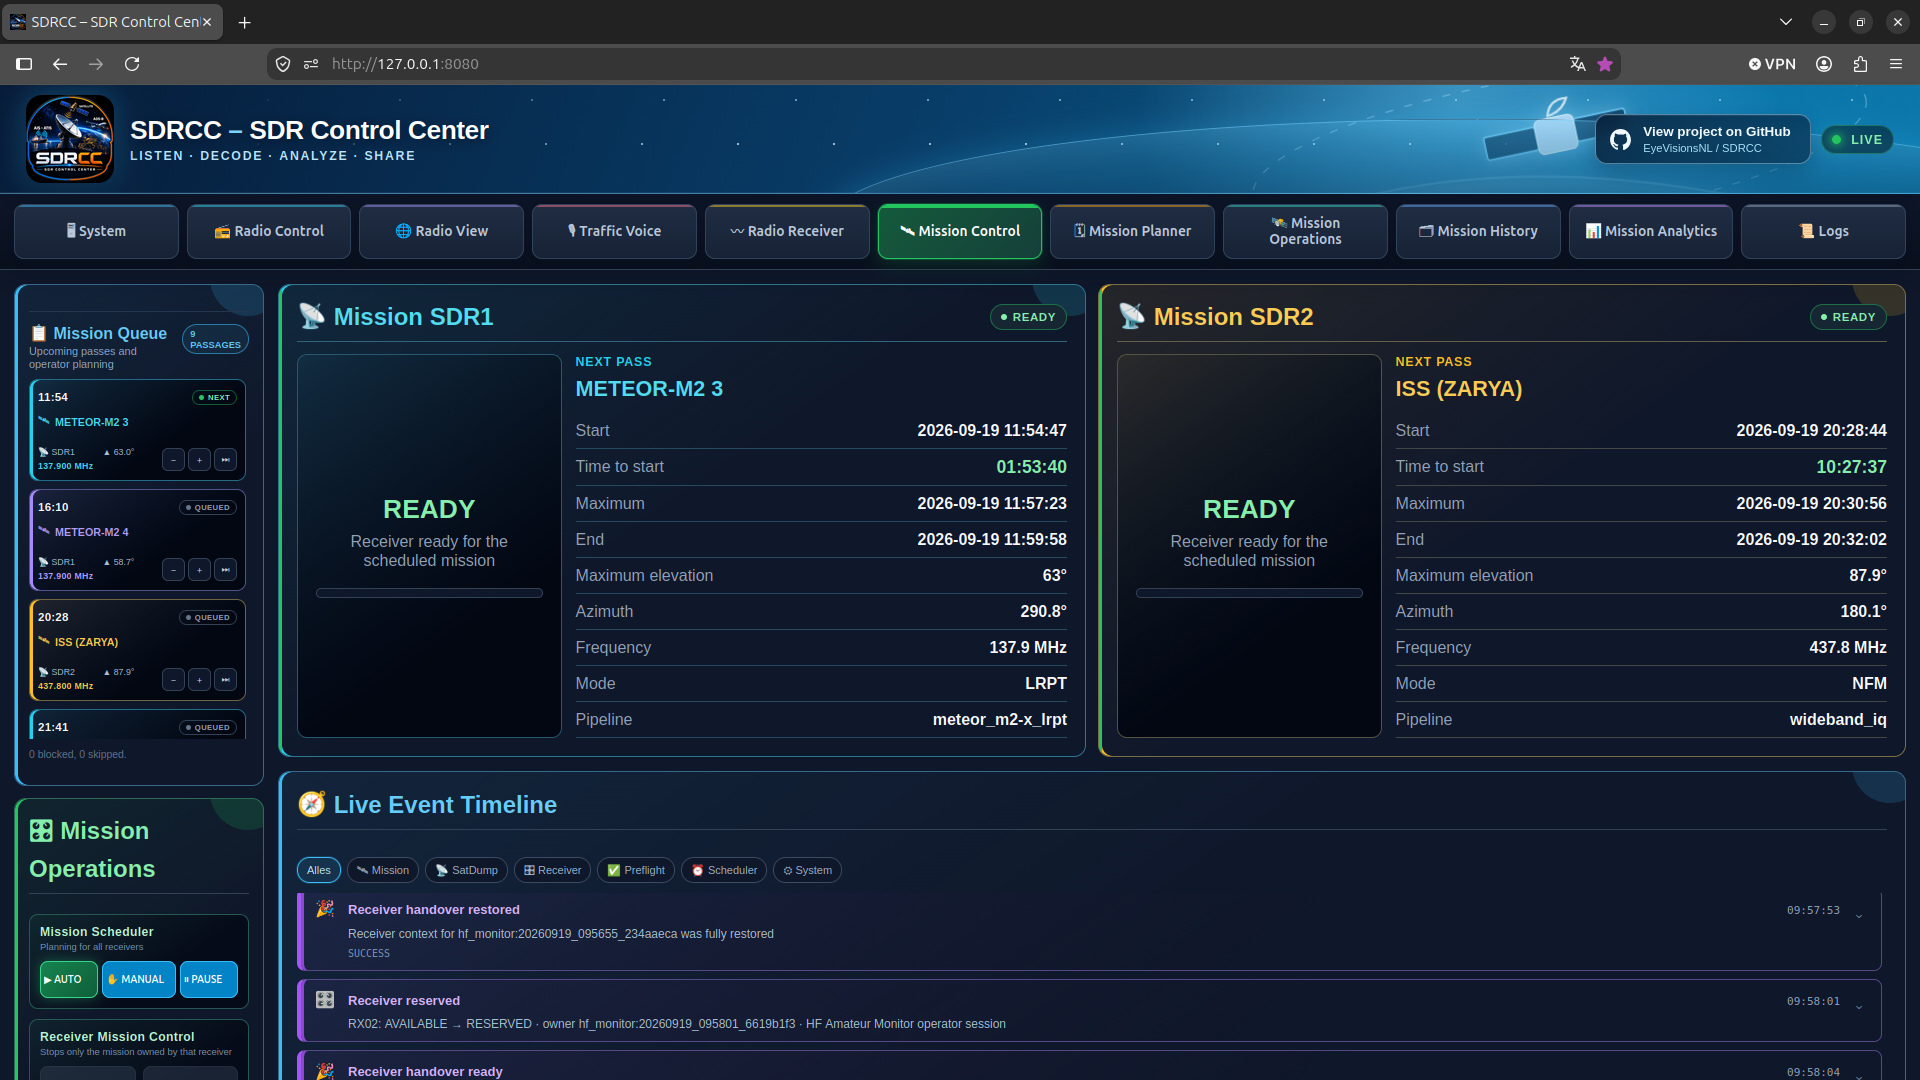
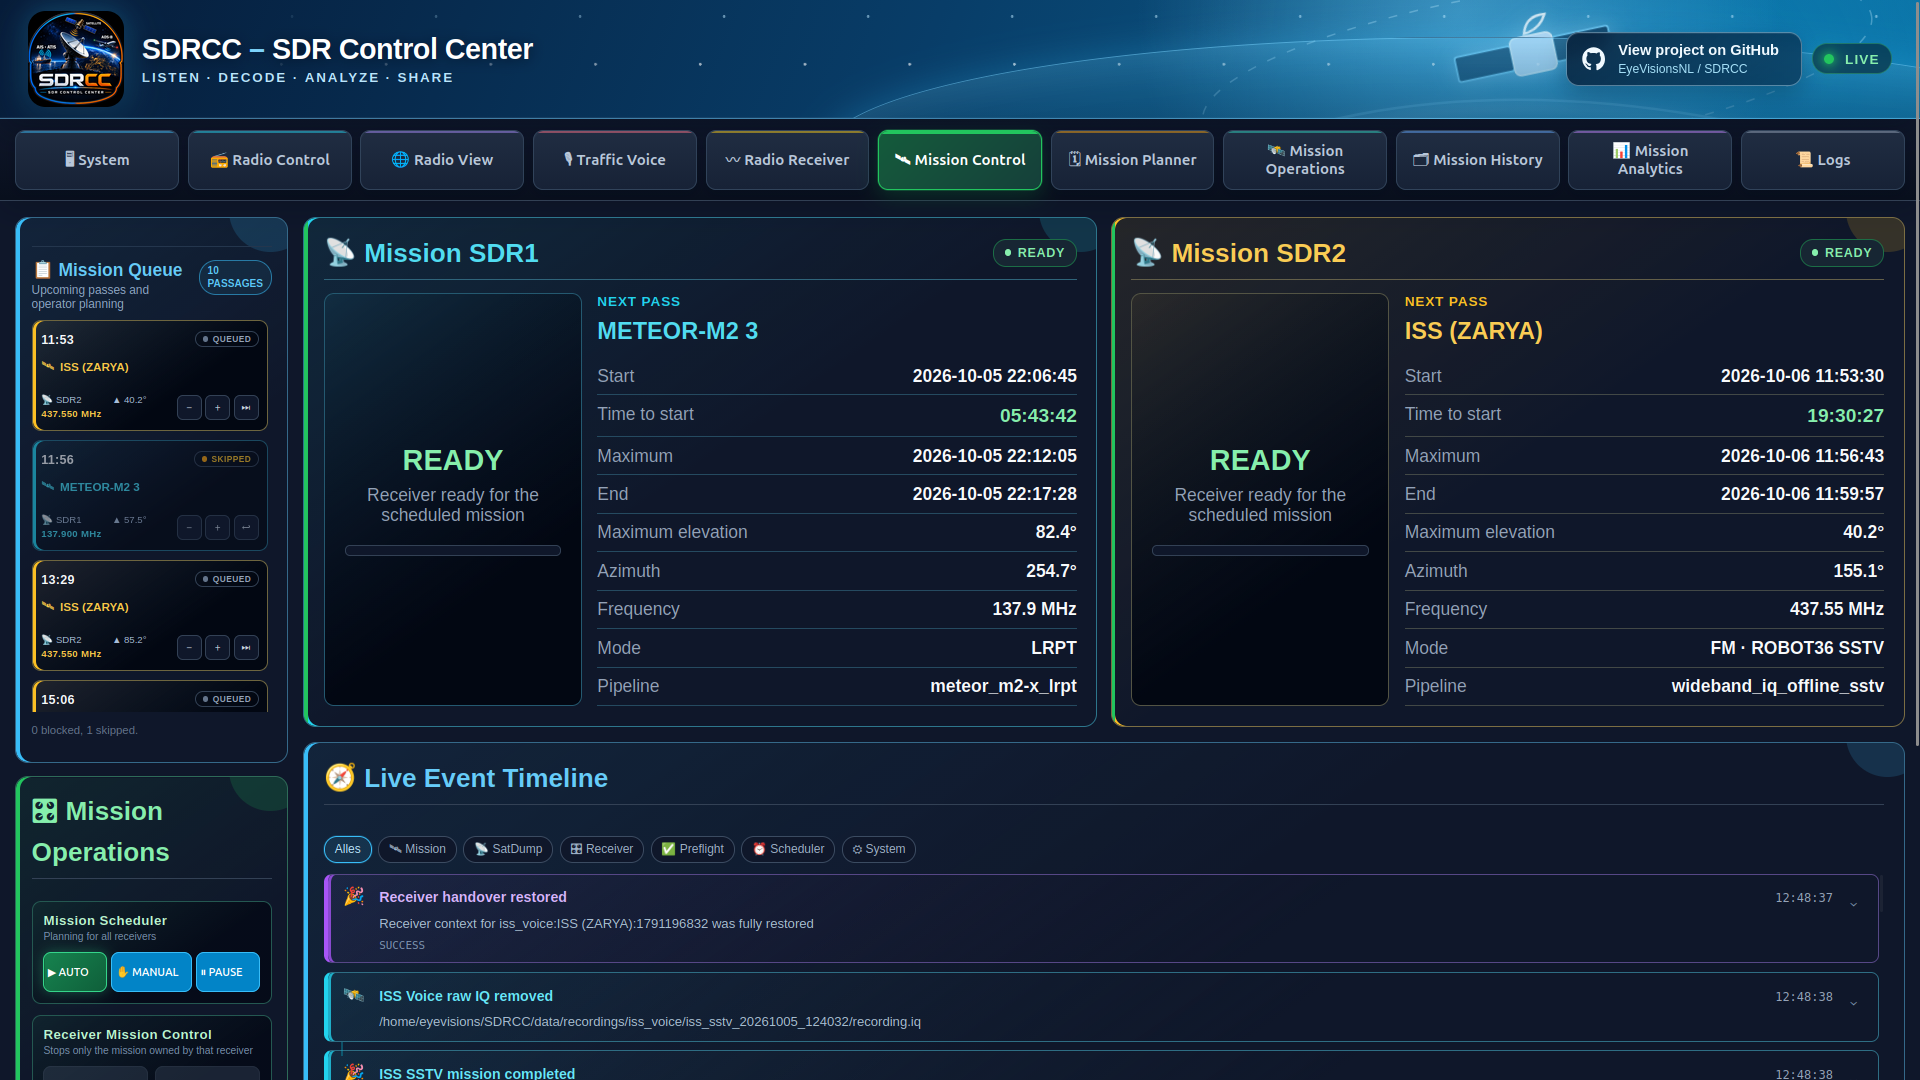
Refresh README for SDRCC 0.63.12

Changed region(s): [[0.0, 0.0, 1.0, 1.0], [0.9375, 0.9778, 0.9688, 1.0], [0.9375, 0.825, 0.9688, 0.8556]]

diff --git a/README.md b/README.md
@@ -30,7 +30,7 @@ SDRCC is designed around multiple RTL-SDR receivers, but the logical SDR slots a
 
 **✈ Aircraft · 🚢 Ships · 🛰 Satellites · 📻 Radio**
 
-![SDRCC Radio View](images/radio-view.png)
+![SDRCC Radio View showing live ADS-B, AIS and satellite tracks](images/radio-view.png)
 
 **Radio View** gives you the quick picture: aircraft from ADS-B, vessels from AIS and satellites currently moving over the station.
 
@@ -52,17 +52,17 @@ The **Auto** function can follow newly validated matches in the AIS-catcher map.
 
 A match depends on the ATIS and AIS information available at that moment, so **Possible Speaker** is exactly what the name says: useful correlation information for the operator, not a claim that every transmission can always be identified.
 
-Traffic Voice also supports **Airband Voice + ADS-B**, fixed-channel listening, channel scanning, scan exclusions, adjustable scan speed, squelch, Auto Gain/manual gain and Excel channel-list import/export.
+Traffic Voice also supports **Airband Voice + ADS-B**, fixed-channel listening, channel scanning, scan exclusions, adjustable scan speed, squelch, selectable voice noise reduction, Auto Gain/manual gain and Excel channel-list import/export.
 
 ## 📻 Sometimes you just want a radio
 
-![SDRCC Radio Receiver spectrum and waterfall](images/radio-receiver.png)
+![SDRCC Radio Receiver with Smart Gain, spectrum and waterfall](images/radio-receiver.png)
 
 Not everything needs to be a mission.
 
 The built-in **Radio Receiver** turns an available RTL-SDR into a browser-controlled receiver with live audio, spectrum and waterfall.
 
-Tune directly or use presets. Supported modes include **LSB, USB, CW, AM, NFM, FM and WFM**, with tuning steps, click-to-tune, RF-power squelch and Auto Gain/manual gain.
+Tune directly or use presets. Supported modes include **LSB, USB, CW, AM, NFM, FM and WFM**, with tuning steps, click-to-tune, **Smart Gain or manual tuner gain**, and RF-power squelch. Smart Gain briefly measures signal and noise, then holds a fixed gain for the session.
 
 Receiver Manager takes care of borrowing the SDR from another role and restoring its previous job when you're finished.
 
@@ -72,23 +72,33 @@ Fortunately, SDRCC can do the waiting.
 
 **Mission Planner** calculates upcoming passes and applies the reception rules configured for each satellite.
 
-![SDRCC Mission Planner](images/mission-planner.png)
+![SDRCC Mission Planner with METEOR and ISS SSTV plans](images/mission-planner.png)
 
 **Mission Control** shows what's coming next, which receiver will be used and what the scheduler is doing.
 
-![SDRCC Mission Control](images/mission-control.png)
+![SDRCC Mission Control showing separate METEOR and ISS receiver plans](images/mission-control.png)
 
 When it's time, SDRCC reserves the required receiver, handles conflicting receiver services and starts the mission. After the pass, the receiver is released and its previous context can be restored.
 
+![Smart Gain settings for Weather/METEOR and ISS Voice](images/weather-meteor-smart-gain.png)
+
+Weather / METEOR and ISS Voice settings offer Smart Gain with an operator-selected fallback when the signal measurement is inconclusive. ISS SSTV events can be scheduled for announced transmission windows and processed for Robot36 image decoding.
+
 ### And hopefully...
 
-![Decoded METEOR result in Mission Operations](images/mission-operations.png)
+![Mission Operations keeping received satellite products with their mission](images/mission-operations.png)
 
 ...you get something from space. 🌍📡
 
 **Mission Operations** keeps received products with their mission. Mission History and Mission Analytics provide the deeper view when you want to inspect results, telemetry, Peak SNR and receiver performance.
 
-SDRCC currently supports automated **METEOR-M2 3 / METEOR-M2 4 LRPT** reception through SatDump and **ISS Voice** pass planning and reception.
+![Mission History showing a METEOR-M2 4 pass](images/mission-history-meteor.png)
+
+![Sample METEOR-M2 4 MSU-MR RGB MCIR image product](images/meteor-m2-4-mcir-result.png)
+
+This is an example product from a received pass; image completeness varies with reception conditions.
+
+SDRCC supports automated **METEOR-M2 3 / METEOR-M2 4 LRPT** reception through SatDump, **ISS Voice** pass planning and reception, and scheduled **ISS SSTV** events with Robot36 image decoding.
 
 ## 🚢 AIS, ✈ ADS-B and a bit more
 
@@ -110,7 +120,7 @@ Roles such as AIS and ADS-B can be reassigned from the dashboard. SDRCC stops co
 
 SDRCC is software, but eventually every signal has to come in through some metal in the sky. 😄
 
-The current station uses a **Scan-King Royal Discone 2000** at about **15 metres**, connected with **Ultraflex 7** coax to a **Mini-Circuits ZFSC-4-1** splitter.
+The current station uses a **Scan-King Royal Discone 2000** at about **12 metres**, connected with **Ultraflex 7** coax to a **Mini-Circuits ZFSC-4-1** splitter.
 
 From there the RF is shared between:
 
@@ -197,7 +207,7 @@ The navigation brings the station together in one place:
 
 `System · Radio Control · Radio View · Traffic Voice · Radio Receiver · Mission Control · Mission Planner · Mission Operations · Mission History · Mission Analytics · Logs`
 
-**System** handles health, detected hardware, receiver bindings and maintenance.
+**System** handles health, detected hardware, receiver bindings and maintenance. Advanced Maintenance groups AIS controls under AIS Update Protection and manages SDRCC updates.
 
 **Radio Control** shows receiver status, assignments and RF settings.
 
@@ -206,7 +216,7 @@ The navigation brings the station together in one place:
 
 ## 🧪 Still evolving
 
-SDRCC is an active project and is currently on the **v0.56.0x / v1.0 preparation** development line.
+SDRCC is an active project; the current release on `main` is **v0.63.12**.
 
 A lot of its features came from actually using the station: receivers fighting over the same dongle, wondering which vessel was talking, missing a satellite pass, wanting to borrow the ADS-B receiver as an ordinary radio...
 
@@ -216,7 +226,7 @@ Usually the next feature starts with:
 
 ...and then somehow turns into another button. 😄
 
-Development happens on the `develop` branch first. Changes are reviewed and validated before they move to `main`.
+Development happens on the `develop` branch first. Changes are tested before they move to `main`.
 
 ---
 
